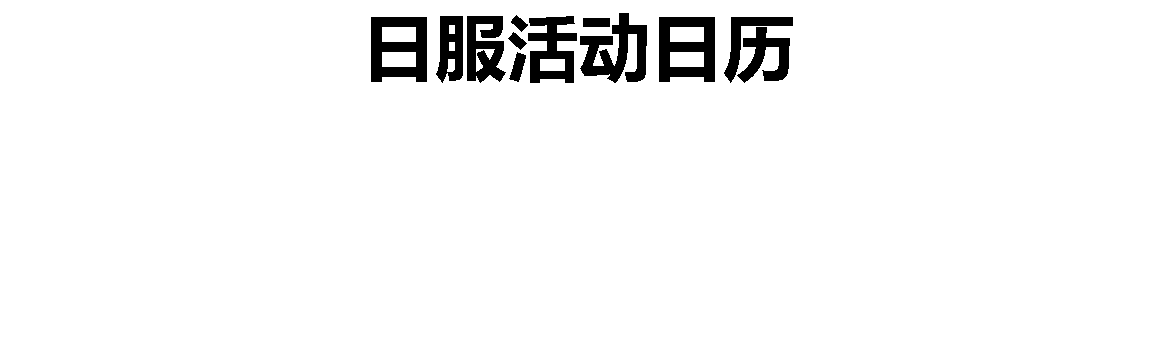
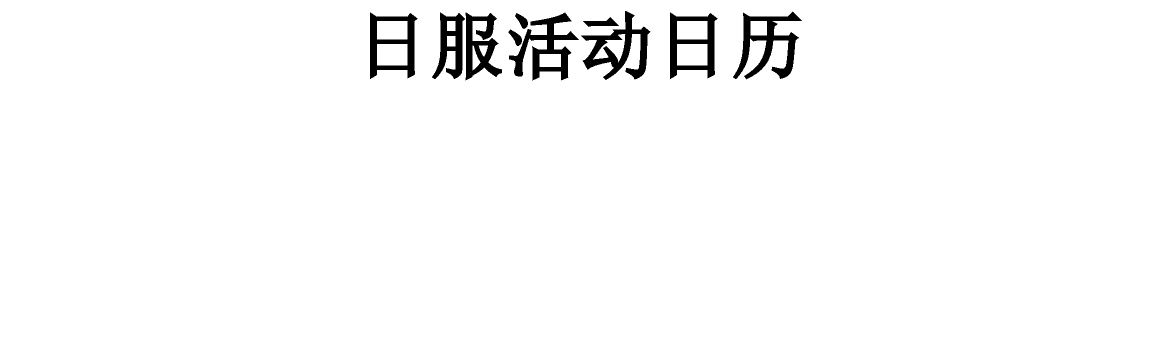
高清大图

Changed region(s): [[0.3106, 0.0306, 0.7144, 0.2444]]

diff --git a/src/test/kotlin/TestSimple.kt b/src/test/kotlin/TestSimple.kt
@@ -6,8 +6,9 @@ import net.diyigemt.arona.util.ActivityUtil
 import net.diyigemt.arona.util.WikiruUtil
 import org.jsoup.Jsoup
 import org.junit.jupiter.api.Test
-import java.awt.Font
-import java.awt.GraphicsEnvironment
+import java.awt.Color
+import java.awt.Image
+import java.awt.image.BufferedImage
 import java.io.File
 import java.text.SimpleDateFormat
 import java.util.Calendar
@@ -93,7 +94,10 @@ class TestSimple {
       Activity("特殊作战3倍掉落", "05天11小时后开始", ActivityType.SPECIAL_DROP)
     )
     val img = ActivityUtil.createActivityImage(active to pending)
-    ImageIO.write(img, "png", File("test.png"))
+    val scale = img.getScaledInstance(img.width / 2, img.height / 2, Image.SCALE_SMOOTH)
+    val after = BufferedImage(img.width / 2, img.height / 2, BufferedImage.TYPE_4BYTE_ABGR)
+    after.graphics.drawImage(scale, 0, 0, Color.WHITE, null)
+    ImageIO.write(after, "png", File("test.png"))
   }
 
 }

diff --git a/src/main/kotlin/net/diyigemt/arona/util/ImageUtil.kt b/src/main/kotlin/net/diyigemt/arona/util/ImageUtil.kt
@@ -5,7 +5,7 @@ import java.awt.RenderingHints
 import java.awt.image.BufferedImage
 object ImageUtil {
 
-  private const val DEFAULT_ITEM_SIZE: Int = 72
+  private const val DEFAULT_ITEM_SIZE: Int = 144
   fun createCalendarImage(eventLength: Int, titleMaxLength: Int): BufferedImage {
     val width = DEFAULT_ITEM_SIZE * (titleMaxLength + 10) * 0.7
     val height = (eventLength + 2) * DEFAULT_ITEM_SIZE
@@ -33,7 +33,7 @@ object ImageUtil {
   fun drawText(img: BufferedImage, str: String, x: Int, y: Int, align: TextAlign, color: Color) {
     val g = img.graphics
 //    g.font = g.font.deriveFont(Font.BOLD).deriveFont(DEFAULT_ITEM_SIZE.toFloat())
-    g.font = Font("微软雅黑", Font.BOLD, DEFAULT_ITEM_SIZE)
+    g.font = Font(g.font.name, Font.BOLD, DEFAULT_ITEM_SIZE)
     g.color = color
     val width = g.fontMetrics.stringWidth(str)
     when (align) {
